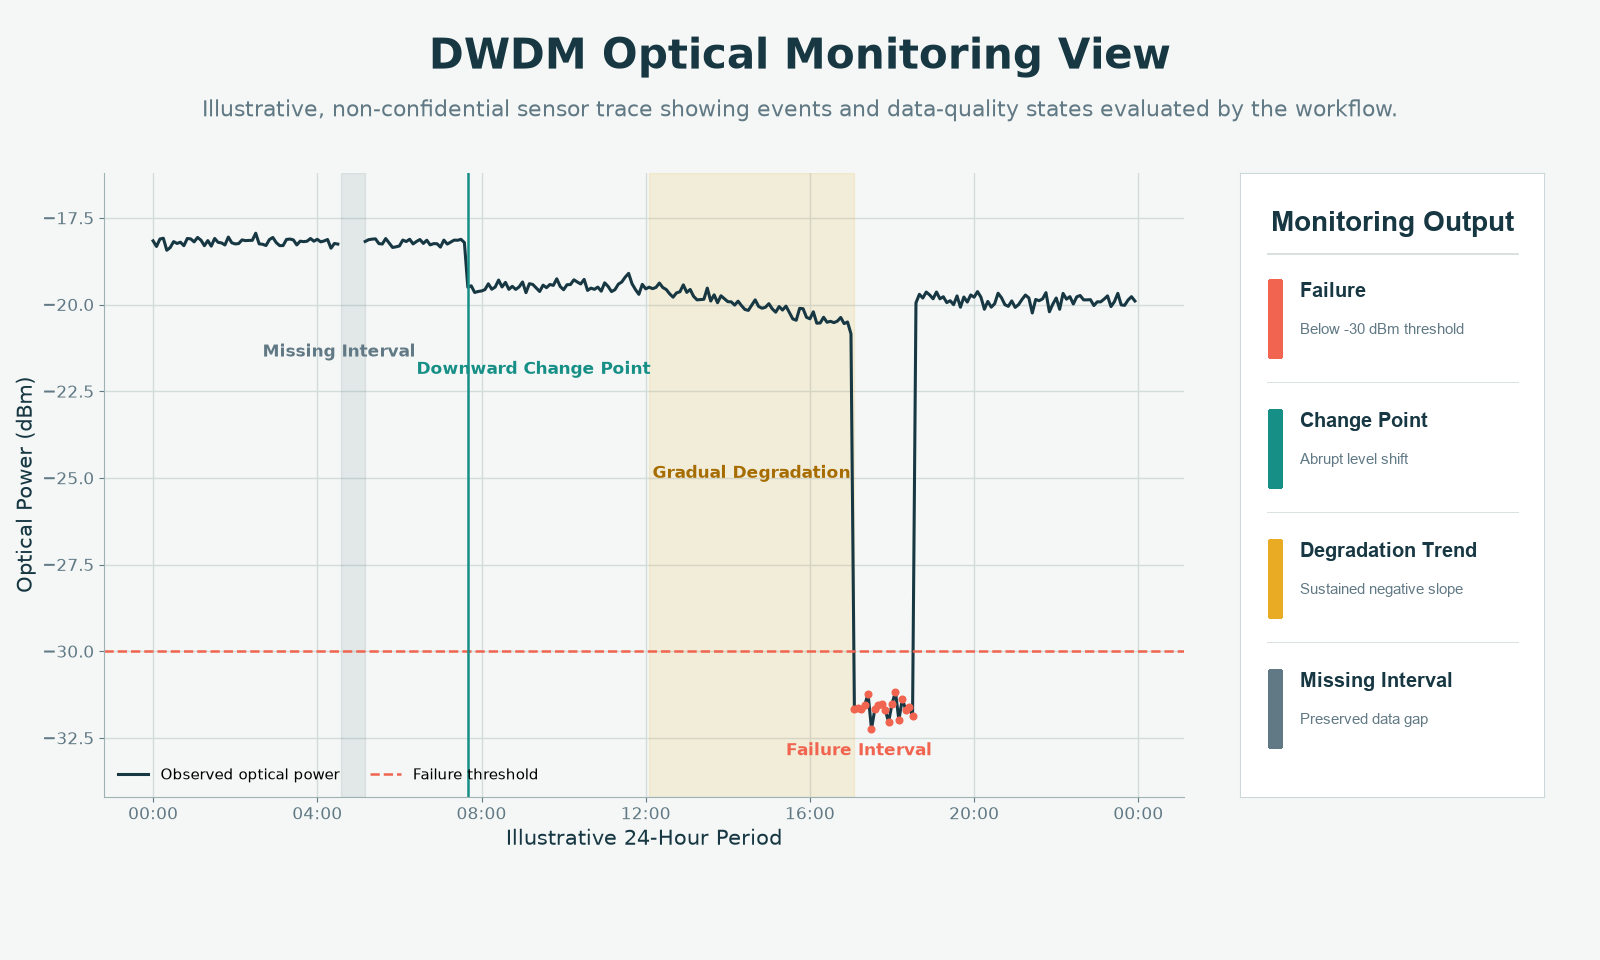
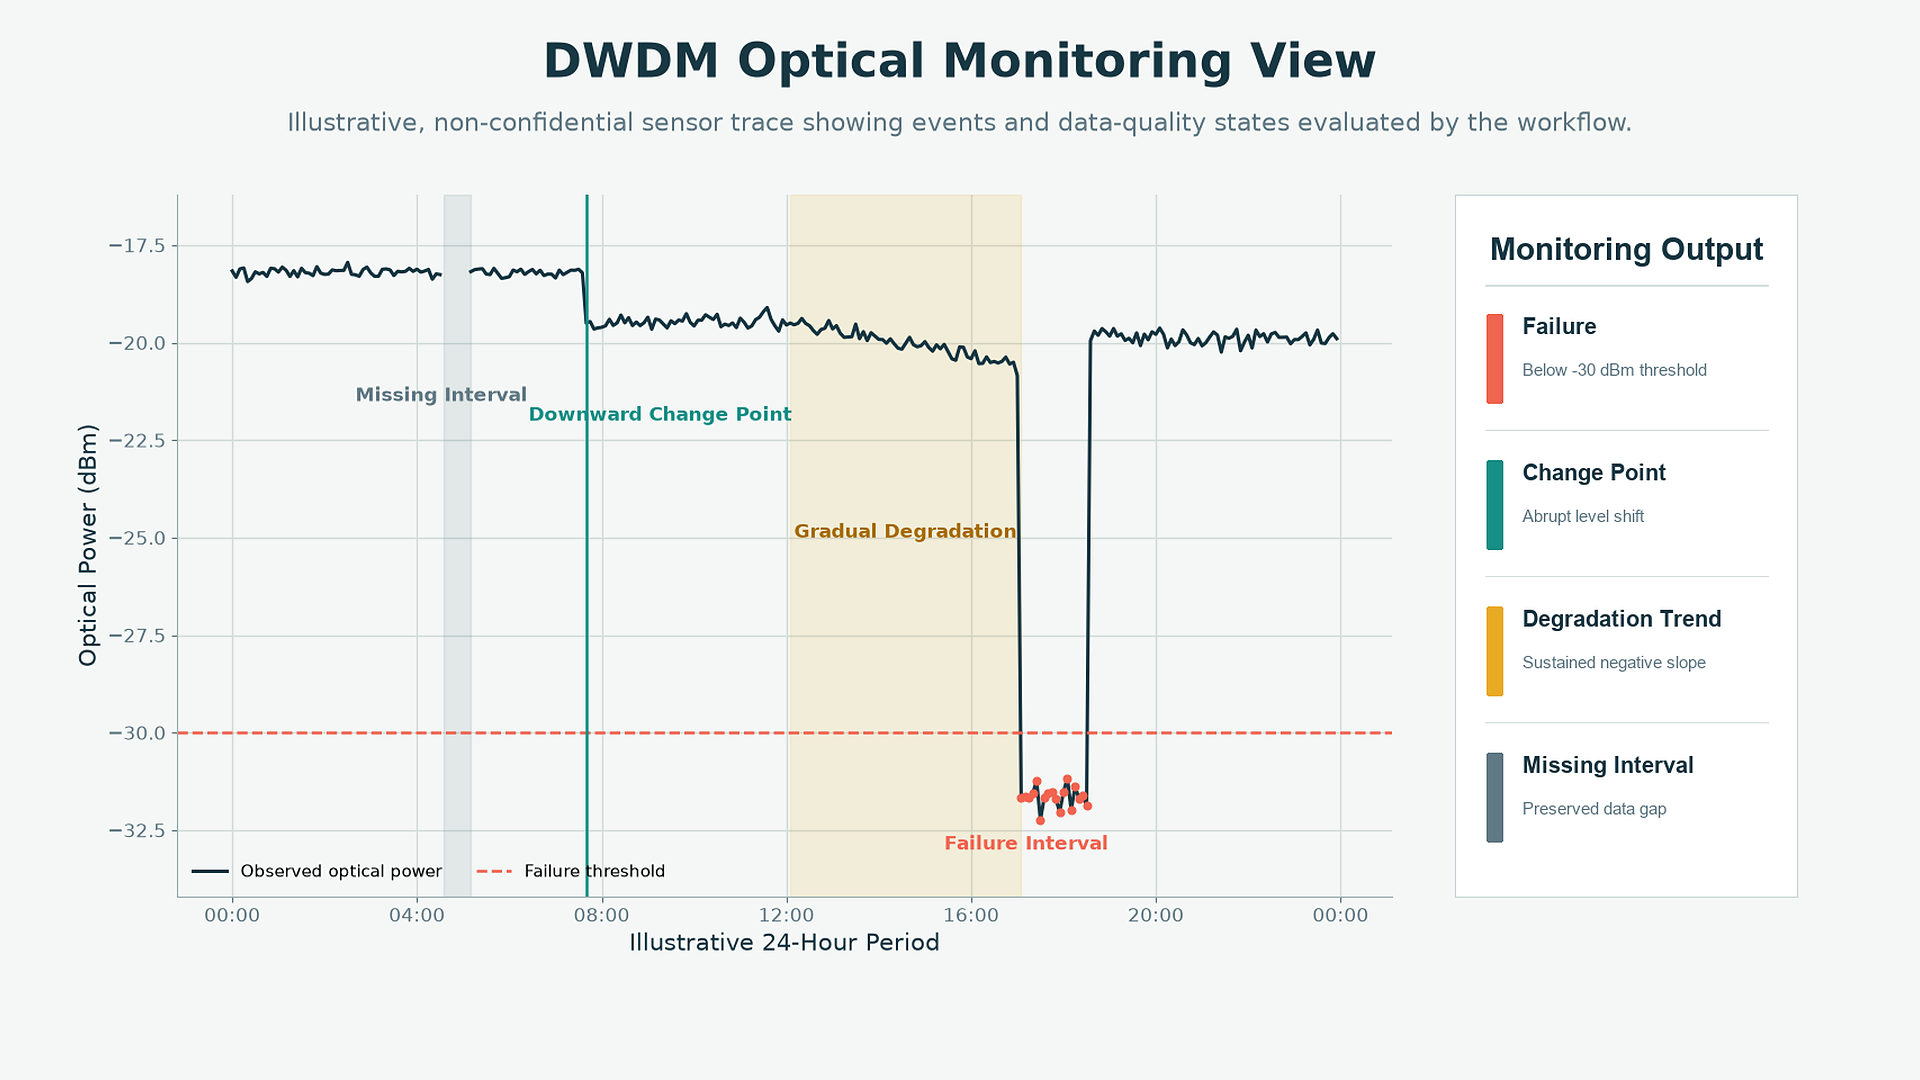
Upgrade portfolio visuals to Full HD

diff --git a/index.html b/index.html
@@ -74,9 +74,9 @@
         ]
       }
     </script>
-    <link rel="preload" as="image" href="assets/hero/data-ai-system-desktop.webp?v=20260809" media="(min-width: 601px)">
-    <link rel="preload" as="image" href="assets/hero/data-ai-system-mobile-v2.webp?v=20260809" media="(max-width: 600px)">
-    <link rel="stylesheet" href="styles.css?v=20260816a">
+    <link rel="preload" as="image" href="assets/hero/data-ai-system-desktop.webp?v=20260816h" media="(min-width: 601px)">
+    <link rel="preload" as="image" href="assets/hero/data-ai-system-mobile-v2.webp?v=20260816h" media="(max-width: 600px)">
+    <link rel="stylesheet" href="styles.css?v=20260816b">
     <script src="script.js?v=20260816a" defer></script>
   </head>
   <body>
@@ -116,7 +116,7 @@
     <main id="main-content">
       <section class="hero" id="top">
         <picture class="hero-wallpaper" aria-hidden="true">
-          <img src="assets/hero/data-ai-system-desktop.webp?v=20260809" alt="" width="1672" height="941" fetchpriority="high" decoding="async">
+          <img src="assets/hero/data-ai-system-desktop.webp?v=20260816h" alt="" width="1920" height="1080" fetchpriority="high" decoding="async">
         </picture>
         <div class="hero-overlay" aria-hidden="true"></div>
         <div class="content hero-content">
@@ -199,8 +199,8 @@
               </div>
               <div class="project-result-column">
                 <figure class="project-visual">
-                  <a class="project-image-link" href="assets/projects/ai-invoice-automation.png?v=20260805i" target="_blank" rel="noopener noreferrer" aria-label="Open the AI invoice automation operating flow at full size">
-                    <img src="assets/projects/ai-invoice-automation.png?v=20260805i" alt="AI invoice automation flow showing batch intake, automated checks, human review, accounting delivery, and a structured record of status, decisions, and duplicate protection" width="1600" height="960" decoding="async">
+                  <a class="project-image-link" href="assets/projects/ai-invoice-automation.png?v=20260816g" target="_blank" rel="noopener noreferrer" aria-label="Open the AI invoice automation operating flow at full size">
+                    <img src="assets/projects/ai-invoice-automation.png?v=20260816g" alt="AI invoice automation flow showing batch intake, automated checks, human review, accounting delivery, and a structured record of status, decisions, and duplicate protection" width="1920" height="1080" decoding="async">
                   </a>
                   <figcaption>The project is split into 3 n8n workflows so intake, human review, and accounting delivery can start independently and be retried safely.</figcaption>
                 </figure>
@@ -238,8 +238,8 @@
               </div>
               <div class="project-result-column">
                 <figure class="project-visual">
-                  <a class="project-image-link" href="assets/projects/retail-sales-forecasting.png?v=20260816e" target="_blank" rel="noopener noreferrer" aria-label="Open the retail forecasting system visual at full size">
-                    <img src="assets/projects/retail-sales-forecasting.png?v=20260816e" alt="Retail forecasting flow from 6 source tables through forecast-safe features, Ridge and XGBoost selection by validation RMSLE, a versioned artifact, and matching batch, FastAPI, and Docker inference" width="1600" height="960" loading="lazy" decoding="async">
+                  <a class="project-image-link" href="assets/projects/retail-sales-forecasting.png?v=20260816g" target="_blank" rel="noopener noreferrer" aria-label="Open the retail forecasting system visual at full size">
+                    <img src="assets/projects/retail-sales-forecasting.png?v=20260816g" alt="Retail forecasting flow from 6 source tables through forecast-safe features, Ridge and XGBoost selection by validation RMSLE, a versioned artifact, and matching batch, FastAPI, and Docker inference" width="1920" height="1080" loading="lazy" decoding="async">
                   </a>
                   <figcaption>1 versioned XGBoost artifact drives the same 16-day contract across batch, FastAPI, and Docker inference.</figcaption>
                 </figure>
@@ -277,8 +277,8 @@
               </div>
               <div class="project-result-column">
                 <figure class="project-visual">
-                  <a class="project-image-link" href="assets/projects/xgboost-rainfall.png?v=20260724d" target="_blank" rel="noopener noreferrer" aria-label="Open the XGBoost rainfall project visual at full size">
-                    <img src="assets/projects/xgboost-rainfall.png?v=20260724d" alt="Observed rainfall and pooled out-of-fold XGBoost predictions across 10 temporal test windows" width="1600" height="960" decoding="async">
+                  <a class="project-image-link" href="assets/projects/xgboost-rainfall.png?v=20260816g" target="_blank" rel="noopener noreferrer" aria-label="Open the XGBoost rainfall project visual at full size">
+                    <img src="assets/projects/xgboost-rainfall.png?v=20260816g" alt="Observed rainfall and pooled out-of-fold XGBoost predictions across 10 temporal test windows" width="1920" height="1080" decoding="async">
                   </a>
                   <figcaption>Observed rainfall and pooled out-of-fold predictions from the 10-fold temporal evaluation.</figcaption>
                 </figure>
@@ -317,8 +317,8 @@
               </div>
               <div class="project-result-column">
                 <figure class="project-visual">
-                  <a class="project-image-link" href="assets/projects/thyroid-classification.png?v=20260724g" target="_blank" rel="noopener noreferrer" aria-label="Open the thyroid classification project visual at full size">
-                    <img src="assets/projects/thyroid-classification.png?v=20260724g" alt="Top 10 encoded features using their original column names, ranked by mean Information Gain across 10 training folds" width="1619" height="971" loading="lazy" decoding="async">
+                  <a class="project-image-link" href="assets/projects/thyroid-classification.png?v=20260816g" target="_blank" rel="noopener noreferrer" aria-label="Open the thyroid classification project visual at full size">
+                    <img src="assets/projects/thyroid-classification.png?v=20260816g" alt="Top 10 encoded features using their original column names, ranked by mean Information Gain across 10 training folds" width="1920" height="1080" loading="lazy" decoding="async">
                   </a>
                   <figcaption>Top 10 encoded features by mean Information Gain across 10 training folds.</figcaption>
                 </figure>
@@ -357,8 +357,8 @@
               </div>
               <div class="project-result-column">
                 <figure class="project-visual">
-                  <a class="project-image-link" href="assets/projects/dwdm-monitoring.png?v=20260724f" target="_blank" rel="noopener noreferrer" aria-label="Open the optical monitoring project visual at full size">
-                    <img src="assets/projects/dwdm-monitoring.png?v=20260724f" alt="Illustrative DWDM optical signal trace with a change point, degradation trend, failure interval, missing interval, and monitoring output" width="1600" height="960" loading="lazy" decoding="async">
+                  <a class="project-image-link" href="assets/projects/dwdm-monitoring.png?v=20260816g" target="_blank" rel="noopener noreferrer" aria-label="Open the optical monitoring project visual at full size">
+                    <img src="assets/projects/dwdm-monitoring.png?v=20260816g" alt="Illustrative DWDM optical signal trace with a change point, degradation trend, failure interval, missing interval, and monitoring output" width="1920" height="1080" loading="lazy" decoding="async">
                   </a>
                   <figcaption>Illustrative, non-confidential view of signal events, missing intervals, and monitoring output used by the workflow.</figcaption>
                 </figure>
@@ -393,8 +393,8 @@
               </div>
               <div class="project-result-column">
                 <figure class="project-visual">
-                  <a class="project-image-link" href="assets/projects/bilstm-rainfall.png?v=20260724d" target="_blank" rel="noopener noreferrer" aria-label="Open the BiLSTM rainfall project visual at full size">
-                    <img src="assets/projects/bilstm-rainfall.png?v=20260724d" alt="Observed rainfall and next-day BiLSTM predictions over the chronological test period" width="1600" height="960" loading="lazy" decoding="async">
+                  <a class="project-image-link" href="assets/projects/bilstm-rainfall.png?v=20260816g" target="_blank" rel="noopener noreferrer" aria-label="Open the BiLSTM rainfall project visual at full size">
+                    <img src="assets/projects/bilstm-rainfall.png?v=20260816g" alt="Observed rainfall and next-day BiLSTM predictions over the chronological test period" width="1920" height="1080" loading="lazy" decoding="async">
                   </a>
                   <figcaption>Observed rainfall and next-day predictions over the chronological test period.</figcaption>
                 </figure>
@@ -432,8 +432,8 @@
               </div>
               <div class="project-result-column">
                 <figure class="project-visual">
-                  <a class="project-image-link" href="assets/projects/arima-rice.png?v=20260724e" target="_blank" rel="noopener noreferrer" aria-label="Open the ARIMA rice-price project visual at full size">
-                    <img src="assets/projects/arima-rice.png?v=20260724e" alt="Observed and 1-step-ahead forecast prices for medium and premium rice during walk-forward evaluation" width="1600" height="960" loading="lazy" decoding="async">
+                  <a class="project-image-link" href="assets/projects/arima-rice.png?v=20260816g" target="_blank" rel="noopener noreferrer" aria-label="Open the ARIMA rice-price project visual at full size">
+                    <img src="assets/projects/arima-rice.png?v=20260816g" alt="Observed and 1-step-ahead forecast prices for medium and premium rice during walk-forward evaluation" width="1920" height="1080" loading="lazy" decoding="async">
                   </a>
                   <figcaption>Observed and 1-step-ahead forecasts over the walk-forward test period.</figcaption>
                 </figure>

diff --git a/styles.css b/styles.css
@@ -1103,7 +1103,7 @@ h3 {
     min-height: 0;
     height: auto;
     max-height: none;
-    background-image: url("assets/hero/data-ai-system-mobile-v2.webp?v=20260809");
+    background-image: url("assets/hero/data-ai-system-mobile-v2.webp?v=20260816h");
     background-position: center top;
     background-size: cover;
   }

diff --git a/PROJECT.md b/PROJECT.md
@@ -380,6 +380,13 @@ padding, component dimensions, text alignment, icon placement, and hierarchy.
 Approval requires inspection at the visual's real website-card size; visibly
 off-center, cramped, uneven, or accidentally wrapped elements must be fixed.
 
+Every portfolio project visual is exported as a native `1920x1080` Full HD
+image in a `16:9` ratio. Approval verifies the actual file dimensions instead
+of relying on HTML attributes. Preserve the source aspect ratio without
+stretching, and inspect text, charts, and diagrams again after export. Profile
+photos, social previews, desktop heroes, and mobile heroes retain the dimensions
+required by their own platform or responsive-layout contract.
+
 General-purpose icons and illustrations must come from one reputable official
 or open-license asset library with a consistent style. Verify and document the
 source and license, bundle the approved asset locally, and do not mix unrelated

diff --git a/README.md b/README.md
@@ -38,7 +38,8 @@ includes:
 - a permanent dark interface with a consistent color palette;
 - project-context filters for Professional, Independent, and Academic work;
 - accessible navigation and structured page sections;
-- optimized project and social-preview images; and
+- native `1920x1080` Full HD project visuals plus optimized platform-specific
+  profile, hero, and social-preview images; and
 - downloadable English resume.
 
 The retail-system visual uses icons from the official
